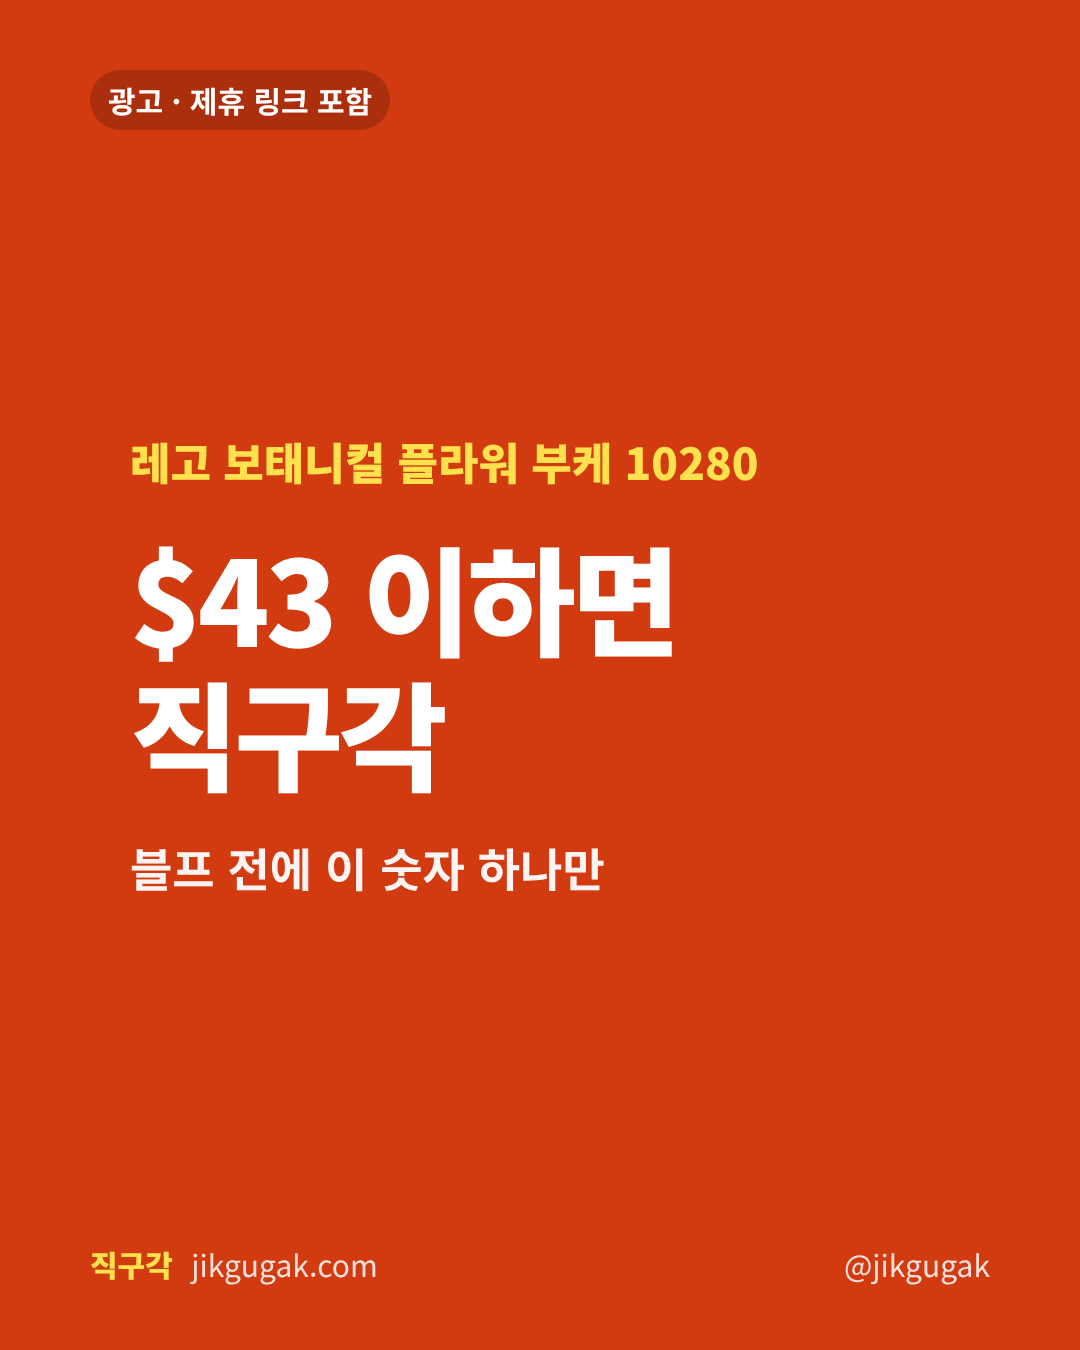
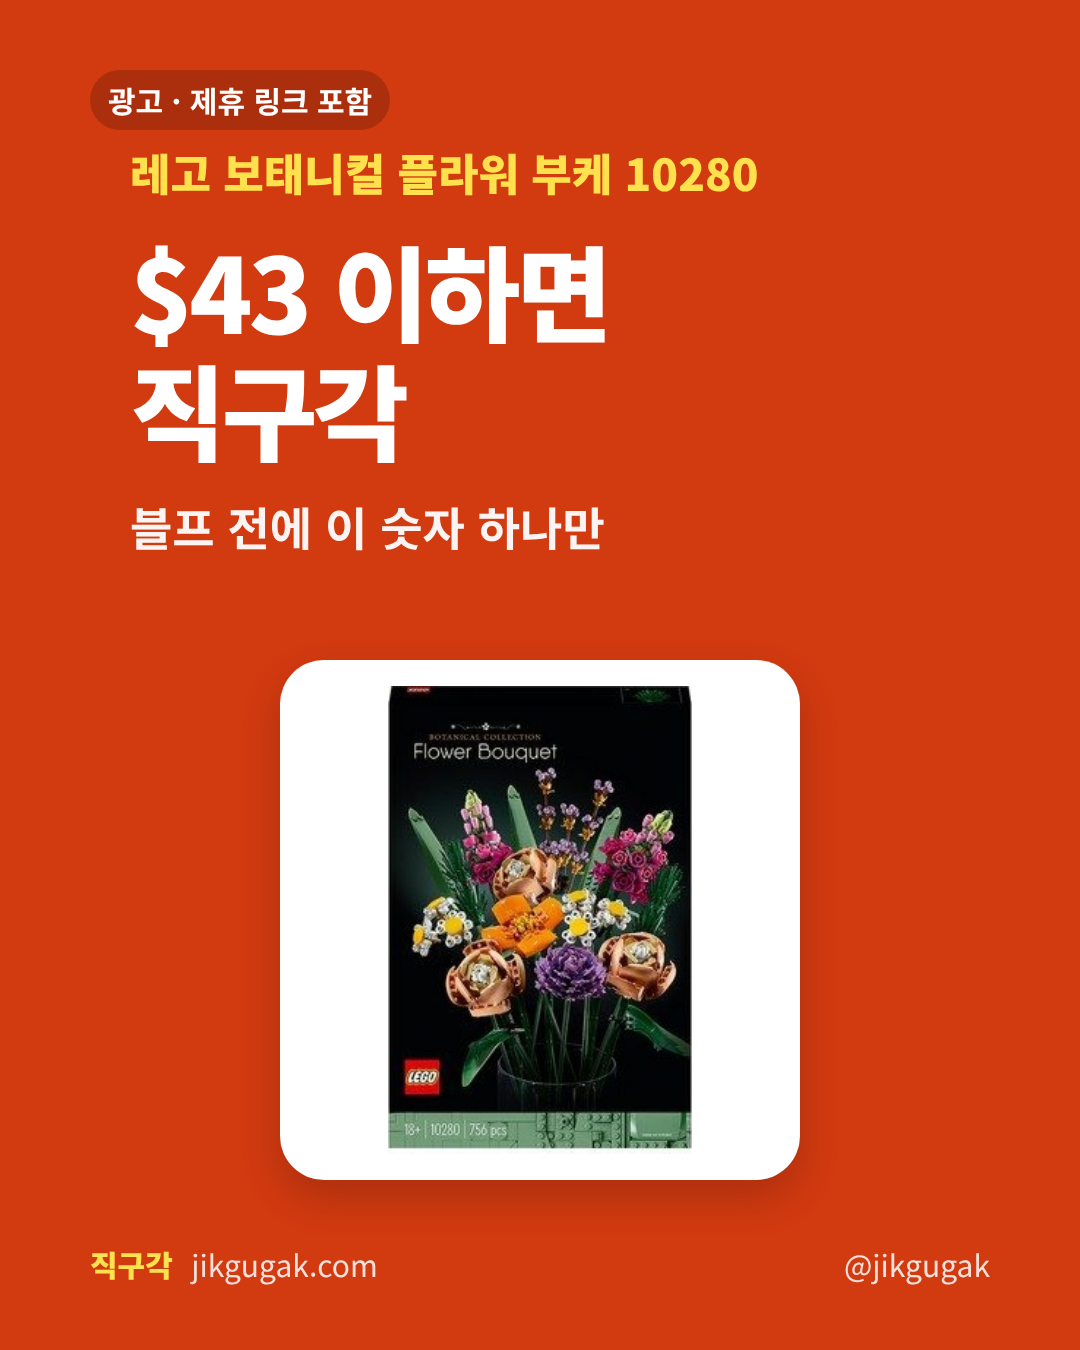
검색: 한글→영어 검색어 확장, 이름 안 맞는 상품 제외, 본품 없으면 안내 / 카드 표지에 상품 사진(레고 꽃다발) 및 사진 규칙
Claude-Session: https://claude.ai/code/session_019Cv1aFf1DMQ9eAvVdGwkdU

Changed region(s): [[0.1222, 0.1867, 0.7639, 0.9022], [0.1222, 0.0933, 0.7028, 0.1556]]

diff --git a/content/2026-10-22-lego-bouquet/cards/deck.html b/content/2026-10-22-lego-bouquet/cards/deck.html
@@ -16,6 +16,11 @@ h2{font-size:86px;line-height:1.22;font-weight:900;letter-spacing:-2px}
 .kicker{font-size:44px;font-weight:800;color:#FFE14D}
 .cover-t{font-size:118px;line-height:1.14;font-weight:900;letter-spacing:-4px}
 .cover-s{font-size:46px;line-height:1.45;font-weight:600;opacity:.95}
+.cover.has-img{justify-content:flex-start;padding-top:140px;gap:26px}
+.cover.has-img .cover-t{font-size:104px}
+.cover-img{margin-top:auto;align-self:center;width:520px;height:520px;background:#fff;border-radius:44px;padding:26px;box-shadow:0 18px 40px rgba(0,0,0,.18)}
+.cover-img img,.pt-img img{width:100%;height:100%;object-fit:contain;display:block}
+.pt-img{align-self:center;width:420px;height:420px;background:#fff;border:3px solid #E6E8EC;border-radius:36px;padding:20px}
 .badge{align-self:flex-start;background:#FFE14D;color:#16181D;font-size:40px;font-weight:900;padding:16px 30px;border-radius:999px}
 .rows{display:flex;flex-direction:column;gap:22px}
 .row{display:flex;justify-content:space-between;align-items:center;gap:30px;background:#F5F6F8;border-radius:28px;padding:38px 46px;font-size:46px;font-weight:600}
@@ -33,11 +38,12 @@ h2{font-size:86px;line-height:1.22;font-weight:900;letter-spacing:-2px}
 .ctaslide{background:#FFF7D1;justify-content:center;gap:44px}
 .cta-t{font-size:90px}
 .cta-btn{align-self:flex-start;background:#D23A10;color:#fff;font-size:46px;font-weight:900;padding:26px 44px;border-radius:999px}
-</style></head><body><section class="slide cover"><div class="ad">광고 · 제휴 링크 포함</div>
+</style></head><body><section class="slide cover has-img"><div class="ad">광고 · 제휴 링크 포함</div>
         <div class="kicker">레고 보태니컬 플라워 부케 10280</div>
         <h1 class="cover-t">$43 이하면<br>직구각</h1>
         <p class="cover-s">블프 전에 이 숫자 하나만</p>
-        <div class="foot"><span class="mark"><b>직구각</b> jikgugak.com</span><span>@jikgugak</span></div></section><section class="slide"><div class="num">2/10</div><div class="content"><div class="label">쿠팡 최저가</div><h2>아마존은 얼마여야 이득?</h2><p class="body">쿠팡 무료배송 기준(10월 21일 가격)</p><div class="big">₩71,570</div></div><div class="foot"><span class="mark"><b>직구각</b> jikgugak.com</span><span>@jikgugak</span></div></section><section class="slide"><div class="num">3/10</div><div class="content"><h2>쿠팡보다 20% 싸야 직구각</h2>
+        
[1 lines of base64/hex data omitted]
         <div class="rows"><div class="row dim"><span>쿠팡 (무료배송)</span><b>₩71,570</b></div><div class="row hi"><span>아마존가 이하면 직구각</span><b>$43</b></div></div>
         <p class="note">10.21 가격 · 10.22 환율 기준.<br>20% 그리고 ₩10,000 이상 쌀 때</p></div><div class="foot"><span class="mark"><b>직구각</b> jikgugak.com</span><span>@jikgugak</span></div></section><section class="slide"><div class="num">4/10</div><div class="content"><div class="label">관세</div><h2>$200 안이라 관세 0원</h2><p class="body">미국 특송 완구는 $200까지 면세.<br>관세 8%·부가세 10% 모두 0원</p><div class="big">$200</div></div><div class="foot"><span class="mark"><b>직구각</b> jikgugak.com</span><span>@jikgugak</span></div></section><section class="slide"><div class="num">5/10</div><div class="content"><div class="label">함정</div><h2>꽃다발만 담으면<br>배송비가 붙어요</h2><p class="body">$49 이상만 무료배송(적합 상품).<br>$43 이하면 그 밑이에요</p></div><div class="foot"><span class="mark"><b>직구각</b> jikgugak.com</span><span>@jikgugak</span></div></section><section class="slide"><div class="num">6/10</div><div class="content"><h2>같이 담으면 깔끔해요</h2>
         <div class="rows"><div class="row "><span>꽃다발 10280</span><b>$43 이하</b></div><div class="row "><span>다육식물 10309</span><b>$42 이하</b></div><div class="row hi"><span>같은 주문 합계</span><b>$85 이하</b></div></div>

diff --git a/src/rank.js b/src/rank.js
@@ -11,6 +11,14 @@ export const ACCESSORY_WORDS = [
 // 정품이 아닌 호환·유사품 신호(살짝만 내려요)
 const COMPAT_WORDS = ['호환', '스타일', '유사', 'compatible', 'style', 'for '];
 
+// 한글 브랜드·제품명 ↔ 영어(알리 상품명은 둘이 섞여 있어요). 검색어 확장에도 써요.
+export const ALIASES = {
+  '에어팟': ['airpods', 'airpod'], '에어팟프로': ['airpods pro'], '아이폰': ['iphone'], '아이패드': ['ipad'], '맥북': ['macbook'], '애플워치': ['apple watch'],
+  '갤럭시': ['galaxy'], '버즈': ['buds'], '갤럭시버즈': ['galaxy buds'], '레고': ['lego'], '다이슨': ['dyson'], '닌텐도': ['nintendo'], '스위치': ['switch'],
+  '로지텍': ['logitech'], '소니': ['sony'], '샤오미': ['xiaomi'], '앤커': ['anker'], '베이스어스': ['baseus'], '유그린': ['ugreen'], '큐씨와이': ['qcy'],
+  '키보드': ['keyboard'], '마우스': ['mouse'], '이어폰': ['earphone', 'earbuds'], '헤드폰': ['headphone', 'headphones'], '충전기': ['charger'],
+  '보조배터리': ['power bank'], '허브': ['hub'], '텀블러': ['tumbler'], '스탠리': ['stanley'], '크록스': ['crocs'], '프로틴': ['protein'], '그라인더': ['grinder']
+};
 const lower = (s) => String(s || '').toLowerCase();
 const compact = (s) => lower(s).replace(/[\s\-_/·,.()[\]{}+]+/g, '');
 
@@ -25,7 +33,16 @@ export function tokenize(q) {
 
 function hasToken(titleLower, titleCompact, t) {
   if (/^\d+$/.test(t)) return new RegExp(`(^|[^0-9])${t}([^0-9]|$)`).test(titleLower); // 숫자는 2가 2024에 걸리지 않게
-  return titleCompact.includes(t);
+  if (titleCompact.includes(t)) return true;
+  return (ALIASES[t] || []).some((a) => titleCompact.includes(a.replace(/\s+/g, '')));
+}
+
+// 알리 API에 보낼 검색어 후보: 원래 검색어(한글·숫자 띄움) + 영어로 바꾼 검색어
+export function queryVariants(q) {
+  const toks = tokenize(q);
+  const spaced = toks.join(' ');
+  const english = toks.map((t) => (ALIASES[t] ? ALIASES[t][0] : t)).join(' ');
+  return [...new Set([spaced, english].filter(Boolean))];
 }
 
 export function analyze(item, q) {
@@ -35,19 +52,22 @@ export function analyze(item, q) {
   const qc = compact(q);
   const hits = tokens.filter((t) => hasToken(tl, tc, t)).length;
   const coverage = tokens.length ? hits / tokens.length : 0;
+  const words = tokens.filter((t) => !/^\d+$/.test(t));
+  const wordHits = words.filter((t) => hasToken(tl, tc, t)).length;
+  const relevant = words.length ? wordHits === words.length : hits > 0; // 숫자 말고 '이름'은 다 들어 있어야 관련 상품
   const full = qc.length > 1 && tc.includes(qc);
   const qLower = lower(q);
   const accWord = ACCESSORY_WORDS.find((w) => tl.includes(w) && !qLower.includes(w));
   // "에어팟용", "아이폰 15용" 처럼 검색어 바로 뒤에 '용'이 붙으면 그 제품에 끼우는 액세서리
   const forUse = tokens.some((t) => t.length > 1 && !/^\d+$/.test(t) && new RegExp(`${t}[0-9a-z ]{0,8}용`).test(tl)) && !/용/.test(qLower);
   const compat = COMPAT_WORDS.some((w) => tl.includes(w) && !qLower.includes(w.trim()));
-  return { coverage, full, accessory: Boolean(accWord || forUse), accWord: accWord || (forUse ? '~용' : ''), compat };
+  return { coverage, relevant, full, accessory: Boolean(accWord || forUse), accWord: accWord || (forUse ? '~용' : ''), compat };
 }
 
 const median = (arr) => { const s = [...arr].sort((a, b) => a - b); return s.length ? s[Math.floor(s.length / 2)] : 0; };
 
 export function rank(items, q, { limit = 12 } = {}) {
-  const rows = items.map((it) => ({ it, a: analyze(it, q) }));
+  const rows = items.map((it) => ({ it, a: analyze(it, q) })).filter((r) => r.a.relevant);
   // 기준 가격: 검색어를 다 담은 본품들의 중간값(없으면 전체)
   const core = rows.filter((r) => !r.a.accessory && r.a.coverage === 1).map((r) => r.it.price);
   const ref = median(core.length >= 3 ? core : rows.filter((r) => !r.a.accessory).map((r) => r.it.price)) || median(rows.map((r) => r.it.price));

diff --git a/api/search.js b/api/search.js
@@ -2,7 +2,7 @@
 // 알리익스프레스 제휴 API(aliexpress.affiliate.product.query)로 상품·원화 가격·제휴 링크를 가져와요.
 // 키는 Vercel 환경 변수 ALI_APP_KEY, ALI_APP_SECRET(, ALI_TRACKING_ID)에만 넣어요. 코드·저장소에는 절대 적지 않아요.
 import crypto from 'node:crypto';
-import { rank } from '../src/rank.js';
+import { rank, queryVariants } from '../src/rank.js';
 
 const API = 'https://api-sg.aliexpress.com/sync';
 
@@ -64,10 +64,12 @@ export default async function handler(req, res) {
 
   try {
     // 두 가지로 찾아 합쳐요: 기본(검색어 관련도) + 많이 팔린 순. 순위는 src/rank.js가 다시 매겨요.
-    const [byRel, byVol] = await Promise.all([query(base), query({ ...base, sort: 'LAST_VOLUME_DESC' })]);
-    if (byRel.error && byVol.error) return send(res, 502, { ok: false, reason: 'upstream', detail: byRel.error });
+    // 검색어 후보(원래 말 + 영어로 바꾼 말) × (관련도순, 판매순)
+    const variants = queryVariants(q).slice(0, 2);
+    const results = await Promise.all(variants.flatMap((kw) => [query({ ...base, keywords: kw }), query({ ...base, keywords: kw, sort: 'LAST_VOLUME_DESC' })]));
+    if (results.every((r) => r.error)) return send(res, 502, { ok: false, reason: 'upstream', detail: results[0].error });
     const seen = new Set();
-    const items = [...(byRel.list || []), ...(byVol.list || [])].map((p) => ({
+    const items = results.flatMap((r) => r.list || []).map((p) => ({
       id: String(p.product_id),
       title: p.product_title,
       price: num(p.target_sale_price || p.sale_price),
@@ -84,7 +86,8 @@ export default async function handler(req, res) {
       const { _score, _why, ...rest } = x;
       return rest;
     });
-    return send(res, 200, { ok: true, q, source: 'aliexpress', items: ranked, ...(debug ? { pool: items.length } : {}) }, debug ? 0 : 3600);
+    const mainFound = ranked.some((x) => !x.accessory);
+    return send(res, 200, { ok: true, q, source: 'aliexpress', items: ranked, mainFound, ...(debug ? { pool: items.length, variants } : {}) }, debug ? 0 : 3600);
   } catch (e) {
     return send(res, 502, { ok: false, reason: 'error' });
   }

diff --git a/public/assets/search.js b/public/assets/search.js
@@ -77,8 +77,10 @@ if (q) {
           : '가격을 불러오지 못했어요. 잠시 뒤 다시 검색해 주세요.';
         return;
       }
-      if (!d.items.length) { statusEl.textContent = '알리익스프레스에서 상품을 찾지 못했어요. 영어나 다른 이름으로 검색해 보세요.'; return; }
-      statusEl.textContent = '';
+      if (!d.items.length) { statusEl.textContent = '알리익스프레스에서 이 상품을 찾지 못했어요. 모델명이나 영어 이름으로 검색해 보세요.'; return; }
+      statusEl.textContent = d.mainFound === false
+        ? '알리익스프레스에는 이 상품 본품이 거의 없고 액세서리·호환품만 보여요. 정품은 쿠팡·아마존 가격과 비교해 보세요.'
+        : '';
       d.items.forEach((it) => list.appendChild(row(it)));
     })
     .catch(() => { statusEl.textContent = '가격을 불러오지 못했어요. 잠시 뒤 다시 검색해 주세요.'; });

diff --git a/.claude/agents/card-designer.md b/.claude/agents/card-designer.md
@@ -11,7 +11,7 @@ tools: Read, Write, Edit, Grep, Glob, Bash
 2. 경고("글자가 넘칠 수 있는 장")가 나오면 그 장 문구를 뜻이 바뀌지 않게 줄이거나 두 장으로 나눈다. 숫자는 절대 바꾸지 않는다.
 3. 만든 PNG를 **한 장씩 전부 Read로 열어** 확인한다: 글자 잘림, 줄바꿈이 어색한 곳(단어 중간·조사만 남는 줄), 너무 빽빽한 장, 표지가 썸네일 크기에서도 읽히는지. 고칠 게 있으면 cards.json의 \n 위치·문구 길이를 조정하고 다시 렌더한다.
 4. 디자인 템플릿(tools/cards/render.mjs의 CSS)을 바꿔야 할 문제면 직접 고치지 말고 매니저에게 무엇이 왜 문제인지 보고한다.
-5. 브랜드 로고·상품 사진·남의 이미지는 넣지 않는다.
+5. 표지에는 상품 사진을 넣는다(`img/` 폴더의 제휴 이미지, card-spec.md 참고). 폴더에 이미지가 없으면 렌더는 하되 매니저에게 "표지 사진 필요: 상품명·슬러그"라고 꼭 보고한다. 브랜드 로고를 따로 붙이거나 남의 이미지를 쓰지 않는다.
 
 결과: `<폴더>/cards/01.png …`, `cards/deck.html`. 보고: 장 수, 고친 장과 이유, 남은 문제.
 커밋·게시 안 함.

diff --git a/docs/marketing/card-spec.md b/docs/marketing/card-spec.md
@@ -2,7 +2,7 @@
 
 - 크기 1080×1350(4:5) PNG. 글자는 32px 이상(폰에서 1/3 크기로 보임). 바깥 120px 안쪽에만 중요한 글자.
 - 색: 직구각 빨강 #D23A10 · 노랑 #FFE14D · 잉크 #16181D · 판정색(직구각 초록 #0E7C4A, 애매 #8A5A00, 국내가 나음 파랑 #2F5FD0).
-- 브랜드 로고·상품 사진은 넣지 않아요(사진이 꼭 필요하면 운영자가 제휴 프로그램 이미지를 직접 붙이도록 `instagram.md`에 메모).
+- **표지엔 상품 사진이 기본이에요.** 사진은 제휴 프로그램 이미지(쿠팡 파트너스 썸네일·알리 제휴 API 이미지)만 써요. 매니저가 브라우저로 받아 `content/<폴더>/img/<이름>.jpg`에 넣어 주고(흰 여백은 잘라 둠), 카드에는 `"image": "img/<이름>.jpg"`로 넣어요. 표지(cover)·포인트(point) 장에 쓸 수 있어요. 브랜드 로고 따로 붙이기·남의 사진은 금지.
 - 제작: `content/<폴더>/cards.json` 작성 → `node tools/cards/render.mjs content/<폴더>` → `cards/01.png …`, `cards/deck.html`.
 - 렌더가 "⚠ 글자가 넘칠 수 있는 장"을 알려 주면 문구를 줄이고 다시 렌더. 마지막엔 PNG를 Read로 직접 열어 눈으로 확인.
 

diff --git a/docs/marketing/review-checklist.md b/docs/marketing/review-checklist.md
@@ -37,6 +37,6 @@ AI 티 나는 말(빼거나 평범한 말로):
 
 ## 5. 채널 형식 (playbook.md)
 - [ ] 블로그: 제목에 검색어 앞쪽, 첫 문단 결론, 표, 링크 하나
-- [ ] 카드: 6~10장, 표지 12자 이내 훅, 한 장 한 포인트, 요약 장, CTA 하나, 번호(표지 제외)·핸들, 렌더 경고 없음, 이미지 직접 열어 확인
+- [ ] 카드: 표지에 상품 사진(제휴 이미지) 있음, 6~10장, 표지 12자 이내 훅, 한 장 한 포인트, 요약 장, CTA 하나, 번호(표지 제외)·핸들, 렌더 경고 없음, 이미지 직접 열어 확인
 - [ ] 캡션: 첫 줄 훅에 숫자, 요청 하나, 링크 없음, 해시태그 5개 이하
 - [ ] 스레드: 2개, 각 500자 이내, #광고
